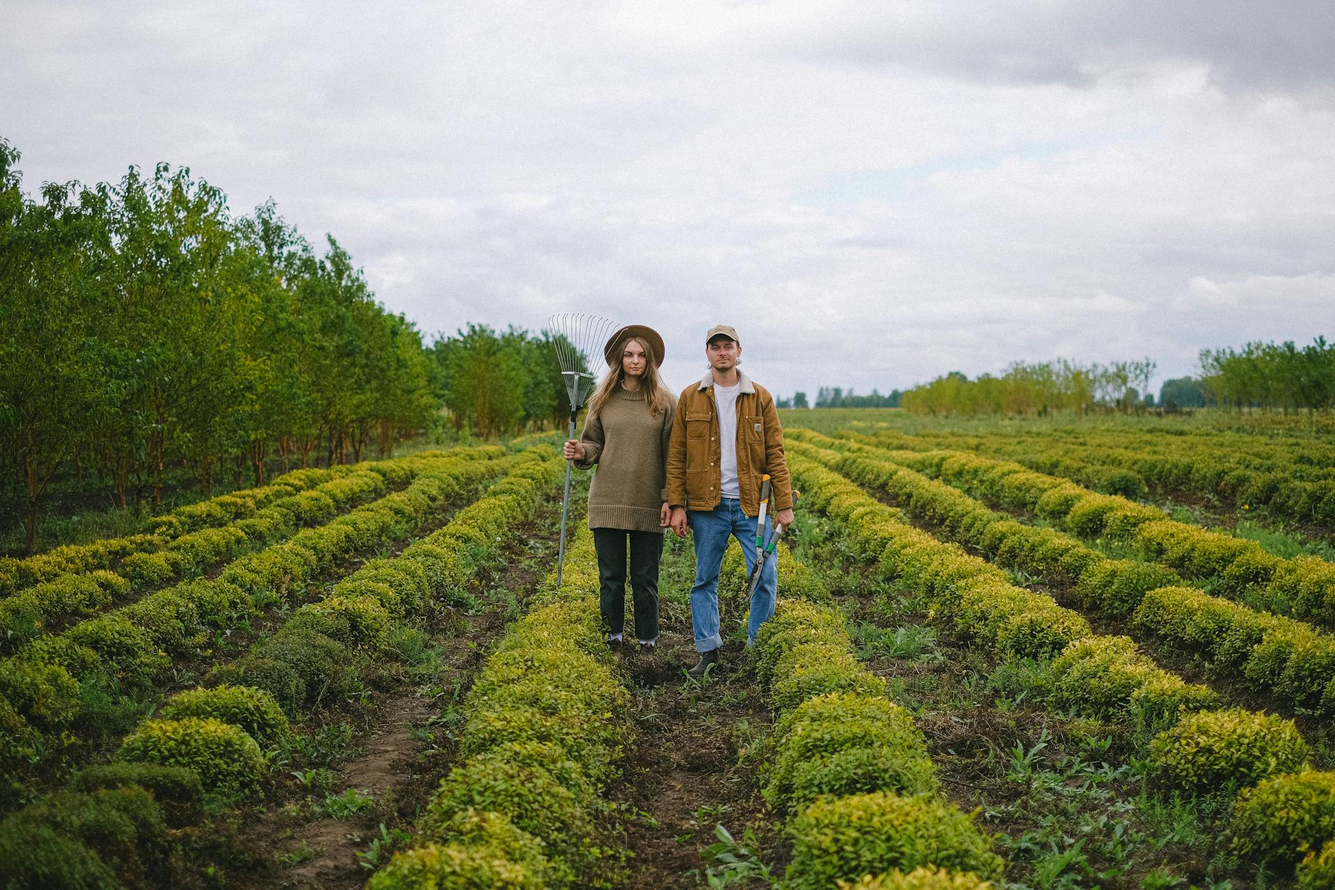
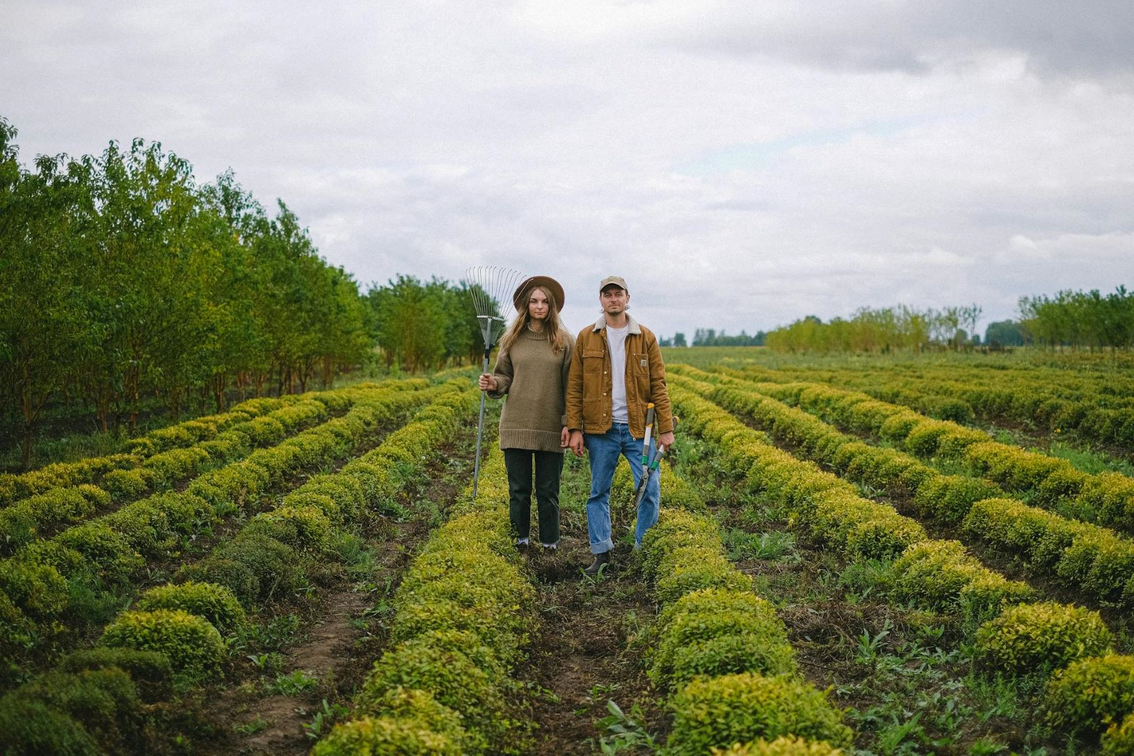
redigerat storlek på foton + ändrat i Account.vue

diff --git a/src/views/OrderHistoryView.vue b/src/views/OrderHistoryView.vue
@@ -82,6 +82,7 @@ article {
 
 #orderHistory_hr {
     border: 1px solid #475133;
+    width: 100%;
 }
 
 #orderHistory {
@@ -179,23 +180,133 @@ article {
     article {
         padding-left: 2rem;
         display: flex;
-        justify-content: flex-start;
-        align-items: flex-start;
+        /* justify-content: flex-start;
+        align-items: flex-start; */
+        padding-right: 0;
+        max-width: 100%;
+        padding-top: 2.8rem;
+        margin-top: 0;
+        /* height: 24rem; */
+    }
+
+    #orderHistory {
+        padding-top: 0;
+        margin-top: 0;
+        height: 100%;
     }
 
     #orderHistory h2 {
         text-align: left;
         width: 0;
-        margin: 1.5rem 0;
-        font-size: 1.5rem;
+        padding-bottom: 1.5rem;
+        font-size: 1rem;
+        padding-top: 0;
+        margin-top: 0;
+    }
+
+    .orderHistory_list {
+        flex-direction: row;
+        max-width: 100%;
+        flex-wrap: wrap;
     }
 
     .orderHistory_list_li {
-        font-size: 1.2rem;
+        font-size: 0.7rem;
+        height: 8rem;
+        margin-right: 1rem;
+        margin-bottom: 1rem;
+        width: 80%;
+        max-width: 20rem;
+    }
+
+    .order_summary {
+        padding-top: 2rem;
+    }
+
+    .img-wrapper {
+        height: 100%;
+        width: 8rem;
     }
 
     .button_seeOrder {
+        margin-top: 0;
+        font-size: 0.7rem;
+        color: var(--dark-green)
+    }
+
+
+    #hrDiv {
+        display: none;
+    }
+}
+
+@media screen and (min-width: 750px) {
+    .orderHistory_list_li {
+        font-size: 0.9rem;
+
+    }
+
+    .order_summary {
+        padding-top: 1rem;
+    }
+}
+
+
+@media screen and (min-width: 850px) {
+    article {
+        padding-left: 2rem;
+        display: flex;
+        /* justify-content: flex-start;
+        align-items: flex-start; */
+        padding-right: 0;
+        max-width: 50rem;
+        padding-top: 2.8rem;
+        margin-top: 0;
+        /* height: 24rem; */
+    }
+
+    #orderHistory {
+        padding-top: 0;
+        margin-top: 0;
+        height: 100%;
+    }
+
+    #orderHistory h2 {
+        text-align: left;
+        width: 0;
+        padding-bottom: 1.5rem;
         font-size: 1rem;
+        padding-top: 0;
+        margin-top: 0;
+    }
+
+    .orderHistory_list {
+        flex-direction: row;
+        max-width: 80rem;
+        flex-wrap: wrap;
+    }
+
+    .orderHistory_list_li {
+        font-size: 0.9rem;
+        height: 8rem;
+        margin-right: 1rem;
+        margin-bottom: 1rem;
+        width: 60%;
+        max-width: 20rem;
+    }
+
+    .order_summary {
+        padding-top: 1rem;
+    }
+
+    .img-wrapper {
+        height: 100%;
+        width: 8rem;
+    }
+
+    .button_seeOrder {
+        margin-top: 0;
+        font-size: 0.7rem;
         color: var(--dark-green)
     }
 
@@ -222,7 +333,23 @@ article {
                         <div class="order_summary">
                             <p><span>Ordernummer:</span> {{ items.id }}</p>
                             <p>Datum: {{ items.order_date }}</p>
-                            <p>Total belopp: {{ items.total_cost }}</p>
+                            <p>Totalbelopp: {{ items.total_cost }}</p>
+                        </div>
+                        <div class="button_seeOrder_div">
+                            <button class="button_seeOrder">Se order</button>
+                        </div>
+                    </div>
+                </li>
+
+                <li class="orderHistory_list_li" v-for="(items, index) in order_history_data">
+                    <div class="img-wrapper" v-if="order_image.length !== 0">
+                        <img :src="order_image[index]" alt="">
+                    </div>
+                    <div class="summar_and_button">
+                        <div class="order_summary">
+                            <p><span>Ordernummer:</span> {{ items.id }}</p>
+                            <p>Datum: {{ items.order_date }}</p>
+                            <p>Totalbelopp: {{ items.total_cost }}</p>
                         </div>
                         <div class="button_seeOrder_div">
                             <button class="button_seeOrder">Se order</button>

diff --git a/src/views/AccountView.vue b/src/views/AccountView.vue
@@ -6,6 +6,9 @@ import { RouterLink } from 'vue-router';
 article {
     display: flex;
     flex-direction: column;
+    padding-left: 0rem;
+    /* justify-content: center;
+    align-items: center; */
 }
 
 #test {
@@ -28,7 +31,7 @@ article {
 }
 
 #profilePic {
-    width: 4rem;
+    width: 5rem;
     border-radius: 100%;
 }
 
@@ -59,10 +62,20 @@ i {
     height: 2.5rem;
 }
 
+#hrDividePage_Div {
+    padding: 0;
+    margin: 0;
+}
 
 @media screen and (max-width: 385px) {
     article {
         width: 100%;
+    }
+}
+
+@media screen and (min-width: 500px) {
+    #profilePic {
+        width: 7rem;
     }
 }
 
@@ -73,6 +86,7 @@ i {
         width: 100%;
         flex-wrap: nowrap;
         gap: 0;
+        padding-left: 2rem;
     }
 
     h1 {
@@ -81,7 +95,88 @@ i {
     }
 
     #profilePic {
+        width: 7rem;
+    }
+
+    h2 {
+        font-weight: 100;
+        font-size: 1.2rem;
+        /* padding: 1.5rem; */
+    }
+
+    ul {
+        display: flex;
+        flex-direction: column;
+        text-align: left;
+        width: 100%;
+        /* padding-top: 2rem; */
+    }
+
+    .profileInfo_li {
+        padding: 0;
+        margin: 0;
+        width: 100%;
+    }
+
+    .i_and_p {
+        padding: 1rem;
+        display: flex;
+        flex-direction: row;
+        gap: 1rem;
+        font-size: 1rem;
+    }
+
+    .hrDivideLi {
+        height: 0;
         width: 10rem;
+        border: solid 2px var(--dark-beige);
+        margin: 0;
+        padding: 0;
+    }
+
+
+    #hrDividePage_Div {
+        padding-left: 2rem;
+        padding-right: 0;
+    }
+
+    #hrDividePage {
+        /* display: flex; */
+        width: 0;
+        /* Changed from 0% to take up the remaining space */
+        height: 32rem;
+        /* flex-wrap: nowrap; */
+        border: solid 2px var(--dark-beige);
+        margin: 0;
+        /* Adjust margin as needed */
+        padding: 0;
+    }
+}
+
+@media screen and (min-width: 750px) {
+    .hrDivideLi {
+        width: 15rem;
+    }
+}
+
+
+@media screen and (min-width: 900px) {
+    article {
+        display: flex;
+        flex-direction: row;
+        width: 100%;
+        flex-wrap: nowrap;
+        gap: 0;
+        padding-left: 2rem;
+    }
+
+    h1 {
+        font-size: 1.5rem;
+        margin: 1rem;
+    }
+
+    #profilePic {
+        width: 7rem;
     }
 
     h2 {
@@ -112,17 +207,23 @@ i {
 
     .hrDivideLi {
         height: 0;
-        width: 20rem;
+        width: 23rem;
         border: solid 2px var(--dark-beige);
         margin: 0;
         padding: 0;
+    }
+
+
+    #hrDividePage_Div {
+        padding-left: 2rem;
+        padding-right: 0;
     }
 
     #hrDividePage {
         /* display: flex; */
         width: 0;
         /* Changed from 0% to take up the remaining space */
-        height: 100%;
+        height: 32rem;
         /* flex-wrap: nowrap; */
         border: solid 2px var(--dark-beige);
         margin: 0;
@@ -196,7 +297,9 @@ i {
             </ul>
 
         </aside>
-        <hr id="hrDividePage">
+        <div id="hrDividePage_Div">
+            <hr id="hrDividePage">
+        </div>
         <RouterView />
 
     </article>
